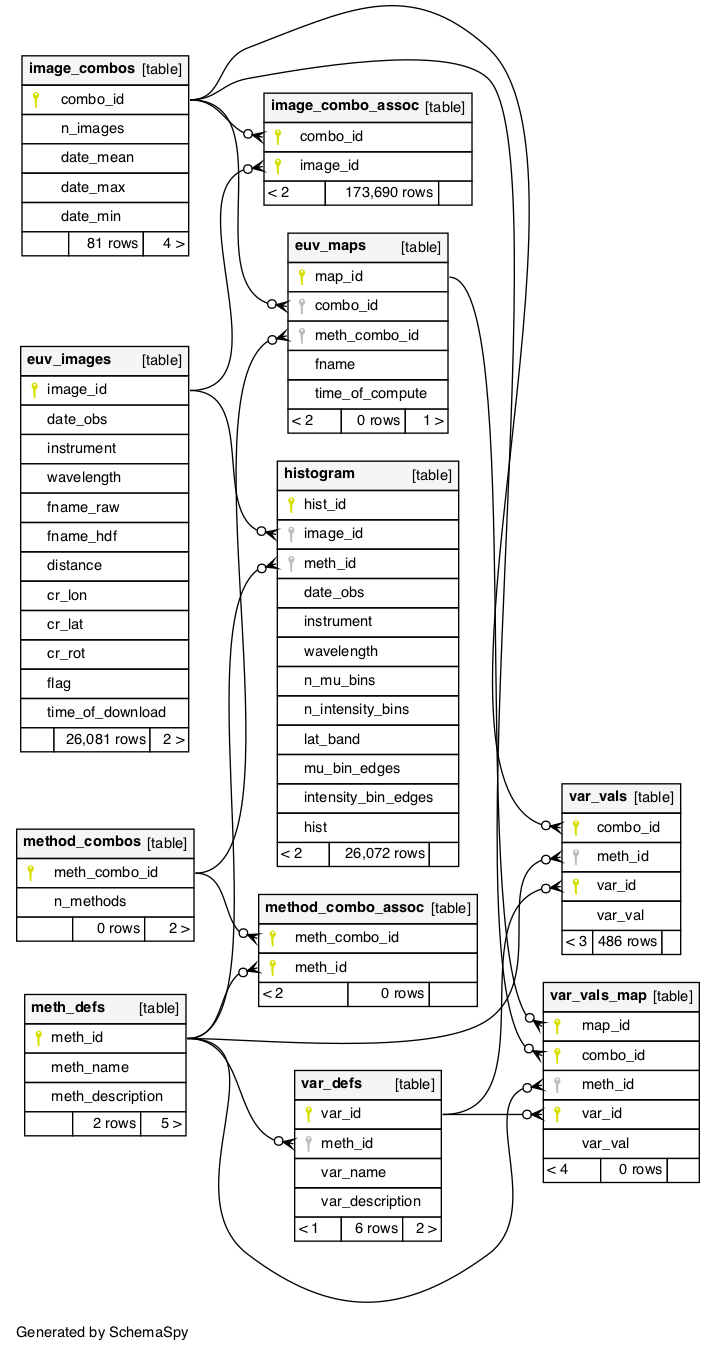
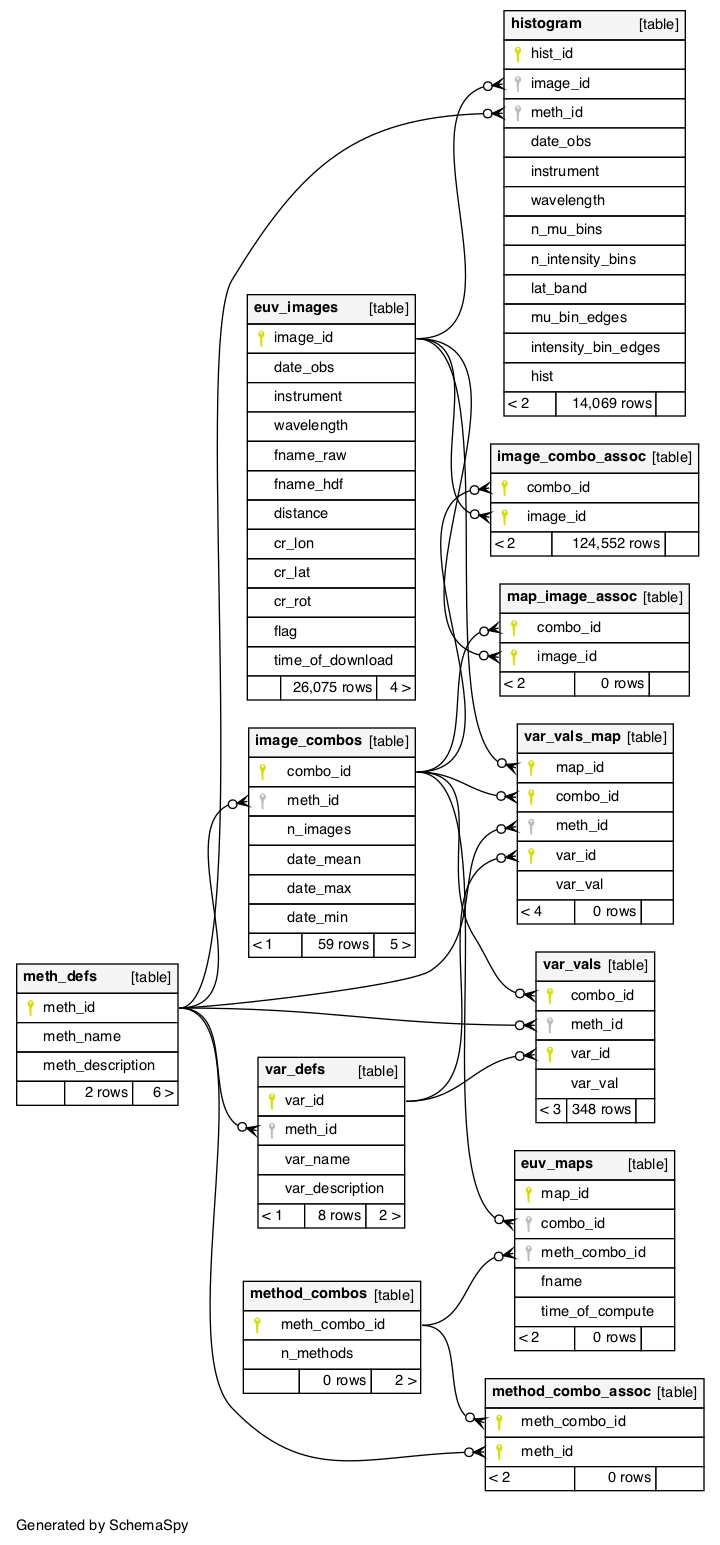
Deployed ac1febb with MkDocs version: 1.1.2

Changed region(s): [[0.0, 0.0, 0.9846, 0.963], [0.0308, 0.963, 0.2462, 0.9941]]

diff --git a/ipp/iit/index.html b/ipp/iit/index.html
@@ -523,7 +523,8 @@ The choice of which instrument to use as the "reference instrument" is an updata
 <h2 id="analysis-pipeline">Analysis Pipeline</h2>
 <h3 id="compute-histograms-and-save-to-database">Compute Histograms and Save to Database</h3>
 <p>This function applies the limb-brightening correction, calculates the associated IIT histogram, and saves these histograms to the database.<br />
-The generalized function can be found <a href="https://github.com/predsci/CHD/blob/master/analysis/iit_analysis/IIT_pipeline_funcs.py">here</a>.  </p>
+The source code and example usage for this is found in the <a href="https://github.com/predsci/CHD/blob/master/analysis/iit_analysis/IIT_create_hists.py">CHD GitHub</a>
+and the generalized function can be found <a href="https://github.com/predsci/CHD/blob/master/analysis/iit_analysis/IIT_pipeline_funcs.py">here</a>.  </p>
 <table class="codehilitetable"><tr><td class="linenos"><div class="linenodiv"><pre> 1
  2
  3
@@ -578,13 +579,127 @@ The generalized function can be found <a href="https://github.com/predsci/CHD/bl
 </ul>
 <h3 id="calculate-and-save-correction-coefficients">Calculate and Save Correction Coefficients</h3>
 <p>This function queries the database for IIT histograms, calculates correction coefficients, and saves them to the database.<br />
-The generalized function can be found <a href="https://github.com/predsci/CHD/blob/master/analysis/iit_analysis/IIT_pipeline_funcs.py">here</a>.  </p>
+The source code and example usage for this is found in the <a href="https://github.com/predsci/CHD/blob/master/analysis/iit_analysis/IIT_calc_coefficients.py">CHD GitHub</a>
+and the generalized function can be found <a href="https://github.com/predsci/CHD/blob/master/analysis/iit_analysis/IIT_pipeline_funcs.py">here</a>.  </p>
+<table class="codehilitetable"><tr><td class="linenos"><div class="linenodiv"><pre> 1
+ 2
+ 3
+ 4
+ 5
+ 6
+ 7
+ 8
+ 9
+10
+11
+12
+13</pre></div></td><td class="code"><div class="codehilite"><pre><span></span><code><span class="err">    def calc_iit_coefficients(db_session, inst_list, ref_inst, calc_query_time_min, calc_query_time_max, weekday=0, number_of_days=180,</span>
+<span class="err">                      n_intensity_bins=200, lat_band=[-np.pi / 2.4, np.pi / 2.4], create=False):</span>
+<span class="err">                  &quot;&quot;&quot;</span>
+<span class="err">                  function to query IIT histograms, calculate IIT coefficients, and save to database</span>
+<span class="err">                  &quot;&quot;&quot;</span>
+<span class="err">                  pd_hist = db_funcs.query_hist(db_session=db_session, meth_id=method_id[1], n_intensity_bins=n_intensity_bins,</span>
+<span class="err">                                  lat_band=np.array(lat_band).tobytes(),</span>
+<span class="err">                                  time_min=np.datetime64(min_date).astype(datetime.datetime),</span>
+<span class="err">                                  time_max=np.datetime64(max_date).astype(datetime.datetime),</span>
+<span class="err">                                  instrument=query_instrument)</span>
+<span class="err">                  alpha_x_parameters = iit.optim_iit_linear(hist_ref, hist_fit, intensity_bin_edges,</span>
+<span class="err">                                          init_pars=init_pars)</span>
+<span class="err">                  db_funcs.store_iit_values(db_session, pd_hist, meth_name, meth_desc, alpha_x_parameters.x, create)</span>
+</code></pre></div>
+</td></tr></table>
+
+<ul>
+<li>1.) <code>db_funcs.query_hist</code><ul>
+<li>queries database for histograms (from Histogram table) in specified date range  </li>
+</ul>
+</li>
+<li>2.) <code>iit.optim_iit_linear</code><ul>
+<li>use linear optimization method to calculate fit parameters</li>
+</ul>
+</li>
+<li>3.) <code>db_funcs.store_iit_values</code><ul>
+<li>save the two fit coefficients to database using function <a href="https://github.com/predsci/CHD/blob/master/modules/DB_funs.py">store_iit_values</a><ul>
+<li>creates image combination combo_id of image_ids and dates in Images_Combos table</li>
+<li>creates association between each image_id and combo_id in Image_Combo_Assoc table</li>
+<li>creates new method “IIT” with an associated meth_id in Meth_Defs table</li>
+<li>creates new variable definitions "alpha and "x"" with an associated var_id in Var_Defs table</li>
+<li>store variable value as float in Var_Vals table with associated combo_id, meth_id, and var_id  </li>
+</ul>
+</li>
+</ul>
+</li>
+</ul>
 <h3 id="apply-inter-instrument-transformation-and-plot-new-images">Apply Inter-Instrument Transformation and Plot New Images</h3>
 <p>This function queries the database for IIT coefficients, applies the correction, and plots resulting images.<br />
-The generalized function can be found <a href="https://github.com/predsci/CHD/blob/master/analysis/iit_analysis/IIT_pipeline_funcs.py">here</a>.  </p>
+The source code and example usage for this is found in the <a href="https://github.com/predsci/CHD/blob/master/analysis/iit_analysis/IIT_apply_correction.py">CHD GitHub</a>
+and the generalized function can be found <a href="https://github.com/predsci/CHD/blob/master/analysis/iit_analysis/IIT_pipeline_funcs.py">here</a>.  </p>
+<table class="codehilitetable"><tr><td class="linenos"><div class="linenodiv"><pre> 1
+ 2
+ 3
+ 4
+ 5
+ 6
+ 7
+ 8
+ 9
+10
+11
+12
+13
+14
+15
+16
+17
+18
+19</pre></div></td><td class="code"><div class="codehilite"><pre><span></span><code><span class="err">    def apply_iit_correction(db_session, hdf_data_dir, iit_query_time_min, iit_query_time_max, inst_list, </span>
+<span class="err">                     n_mu_bins, n_intensity_bins, plot=False):</span>
+<span class="err">                 &quot;&quot;&quot;</span>
+<span class="err">                 function to query IIT correction coefficients, apply correction, and plot resulting images</span>
+<span class="err">                 &quot;&quot;&quot;</span>
+<span class="err">                image_pd = db_funcs.query_euv_images(db_session=db_session, time_min=iit_query_time_min,</span>
+<span class="err">                                     time_max=iit_query_time_max, instrument=query_instrument)</span>
+<span class="err">                lbcc_data = apply_lbc_correction(db_session, hdf_data_dir, instrument, image_row=row,</span>
+<span class="err">                                               n_mu_bins=n_mu_bins, n_intensity_bins=n_intensity_bins, R0=R0)                     </span>
+<span class="err">                alpha_x_parameters = db_funcs.query_var_val(db_session, meth_name, date_obs=lbcc_data.date_obs,</span>
+<span class="err">                                                instrument=instrument)                    </span>
+<span class="err">                corrected_iit_data = alpha * lbcc_data.lbcc_data + x</span>
+<span class="err">                if plot:</span>
+<span class="err">                    Plotting.PlotLBCCImage(lbcc_data.lbcc_data, los_image=original_los, nfig=100 + inst_index * 10 + index,</span>
+<span class="err">                                           title=&quot;Corrected LBCC Image for &quot; + instrument)</span>
+<span class="err">                    Plotting.PlotLBCCImage(corrected_iit_data, los_image=original_los, nfig=200 + inst_index * 10 + index,</span>
+<span class="err">                                           title=&quot;Corrected IIT Image for &quot; + instrument)</span>
+<span class="err">                    Plotting.PlotLBCCImage(lbcc_data.lbcc_data - corrected_iit_data, los_image=original_los,</span>
+<span class="err">                                           nfig=300 + inst_index * 10 + index, title=&quot;Difference Plot for &quot; + instrument)</span>
+</code></pre></div>
+</td></tr></table>
+
+<ul>
+<li>1.) <code>db_funcs.query_euv_images</code><ul>
+<li>queries database for images (from EUV_Images table) in specified date range  </li>
+</ul>
+</li>
+<li>2.)  <code>apply_lbc_correction</code>  <ul>
+<li>applies Limb-Brightening Correction to images and creates LBCCImage datatype  </li>
+</ul>
+</li>
+<li>3.) <code>db_funcs.query_var_val</code><ul>
+<li>queries database for variable values associated with specific image (from Var_Vals table)</li>
+</ul>
+</li>
+<li>4.) <code>corrected_iit_data = alpha * lbcc_data.lbcc_data + x</code><ul>
+<li>applies correction to image based off alpha, x, and limb-brightening corrected data arrays </li>
+</ul>
+</li>
+<li>5.) <code>Plotting.PlotLBCCImage</code><ul>
+<li>plots LBC images, IIT corrected images, and the difference between them                                </li>
+</ul>
+</li>
+</ul>
 <h3 id="generate-histogram-plots">Generate Histogram Plots</h3>
 <p>This function generates histogram plots comparing data from before and after the IIT correction.<br />
-The generalized function can be found <a href="https://github.com/predsci/CHD/blob/master/analysis/iit_analysis/IIT_pipeline_funcs.py">here</a>.  </p>
+The source code and example usage for this is found in the <a href="https://github.com/predsci/CHD/blob/master/analysis/iit_analysis/IIT_plot_hists.py">CHD GitHub</a>
+and the generalized function can be found <a href="https://github.com/predsci/CHD/blob/master/analysis/iit_analysis/IIT_pipeline_funcs.py">here</a>.  </p>
                 
               
               

diff --git a/ipp/lbc/index.html b/ipp/lbc/index.html
@@ -623,7 +623,7 @@ dependent upon their distance from disk center.  </p>
 <h2 id="theoretical-analysis-pipeline">Theoretical Analysis Pipeline</h2>
 <h3 id="compute-histograms-and-save-to-database">Compute Histograms and Save to Database</h3>
 <p>This function computes 2D Histograms from processed images for use in the LBC process. It then saves these computed histograms to the database.<br />
-The source code for this is found in the <a href="https://github.com/predsci/CHD/blob/master/analysis/lbcc_analysis/LBCC_create_mu-hist.py">CHD GitHub</a> 
+The source code and example usage for this is found in the <a href="https://github.com/predsci/CHD/blob/master/analysis/lbcc_analysis/LBCC_create_mu-hist.py">CHD GitHub</a> 
 and the generalized function can be found <a href="https://github.com/predsci/CHD/blob/master/analysis/lbcc_analysis/LBCC_theoretic_funcs.py">here</a>.  </p>
 <table class="codehilitetable"><tr><td class="linenos"><div class="linenodiv"><pre> 1
  2
@@ -645,7 +645,7 @@ and the generalized function can be found <a href="https://github.com/predsci/CH
 <span class="err">        temp_hist = los_temp.mu_hist(image_intensity_bin_edges, mu_bin_edges, lat_band=lat_band, log10=log10)</span>
 <span class="err">        hist_lbcc = psi_d_types.create_lbcc_hist(hdf_path, row.image_id, method_id[1], mu_bin_edges,</span>
 <span class="err">                                                 image_intensity_bin_edges, lat_band, temp_hist)</span>
-<span class="err">        db_funcs.add_hist(hist_lbcc, db_session)</span>
+<span class="err">        db_funcs.add_hist(db_session, hist_lbcc)</span>
 </code></pre></div>
 </td></tr></table>
 
@@ -669,7 +669,7 @@ and the generalized function can be found <a href="https://github.com/predsci/CH
 </ul>
 <h3 id="calculate-and-save-theoretical-fit-parameters">Calculate and Save Theoretical Fit Parameters</h3>
 <p>This function queries histograms from the database then calculates LBC fit parameters which are then saved in the database.<br />
-The source code for this is found in the <a href="https://github.com/predsci/CHD/blob/master/analysis/lbcc_analysis/LBCC_beta-y_theoretical_analysis.py">CHD GitHub</a> 
+The source code and example usage for this is found in the <a href="https://github.com/predsci/CHD/blob/master/analysis/lbcc_analysis/LBCC_beta-y_theoretical_analysis.py">CHD GitHub</a> 
 and the generalized function can be found <a href="https://github.com/predsci/CHD/blob/master/analysis/lbcc_analysis/LBCC_theoretic_funcs.py">here</a>. </p>
 <table class="codehilitetable"><tr><td class="linenos"><div class="linenodiv"><pre> 1
  2
@@ -715,7 +715,7 @@ and the generalized function can be found <a href="https://github.com/predsci/CH
 </ul>
 </li>
 <li>3.) <code>db_funcs.store_lbcc_values</code><ul>
-<li>save the six fit parameters to database using function store_lbcc_values from modules/DB_funs<ul>
+<li>save the six fit parameters to database using function <a href="https://github.com/predsci/CHD/blob/master/modules/DB_funs.py">store_lbcc_values</a><ul>
 <li>creates image combination combo_id of image_ids and dates in Images_Combos table</li>
 <li>creates association between each image_id and combo_id in Image_Combo_Assoc table</li>
 <li>creates new method “LBCC Theoretic” with an associated meth_id in Meth_Defs table</li>
@@ -728,7 +728,7 @@ and the generalized function can be found <a href="https://github.com/predsci/CH
 </ul>
 <h3 id="apply-limb-brightening-correction-and-plot-corrected-images">Apply Limb-Brightening Correction and Plot Corrected Images</h3>
 <p>This function queries the database for LBC fit parameters then applies them to specified images, plotting resulting images before and after the correction.<br />
-The source code for this is found in the <a href="https://github.com/predsci/CHD/blob/master/analysis/lbcc_analysis/LBCC_apply_fit.py">CHD GitHub</a> 
+The source code and example usage for this is found in the <a href="https://github.com/predsci/CHD/blob/master/analysis/lbcc_analysis/LBCC_apply_fit.py">CHD GitHub</a> 
 and the generalized function can be found <a href="https://github.com/predsci/CHD/blob/master/analysis/lbcc_analysis/LBCC_theoretic_funcs.py">here</a>. </p>
 <table class="codehilitetable"><tr><td class="linenos"><div class="linenodiv"><pre> 1
  2
@@ -790,13 +790,13 @@ and the generalized function can be found <a href="https://github.com/predsci/CH
 </ul>
 </li>
 <li>5.) <code>Plotting.PlotImage</code> and <code>Plotting.PlotLBCCImage</code><ul>
-<li>plots original and corrected images and difference between them   </li>
+<li>plots original and corrected images, and difference between them   </li>
 </ul>
 </li>
 </ul>
 <h3 id="generate-plots-of-beta-and-y">Generate Plots of Beta and y</h3>
 <p>This function queries the database for LBC fit parameters then generates plots of Beta and y over time.<br />
-The source code for this is found in the <a href="https://github.com/predsci/CHD/blob/master/analysis/lbcc_analysis/LBCC_generate_theoretic_plots.py">CHD GitHub</a> 
+The source code and example usage for this is found in the <a href="https://github.com/predsci/CHD/blob/master/analysis/lbcc_analysis/LBCC_generate_theoretic_plots.py">CHD GitHub</a> 
 and the generalized function can be found <a href="https://github.com/predsci/CHD/blob/master/analysis/lbcc_analysis/LBCC_theoretic_funcs.py">here</a>.    </p>
 <table class="codehilitetable"><tr><td class="linenos"><div class="linenodiv"><pre> 1
  2

diff --git a/db/db/index.html b/db/db/index.html
@@ -449,7 +449,8 @@
                 
                 
                 <h1 id="database-information">Database Information</h1>
-<p>The Image Pre-Processing Pipeline is built upon a database to store images, histograms, and fit parameter values. </p>
+<p>The Image Pre-Processing Pipeline is built upon a <a href="https://github.com/predsci/CHD/blob/master/modules/DB_classes">database</a>
+ to store images, histograms, and fit parameter values. </p>
 <h2 id="updating-the-database">Updating the Database</h2>
 <p>The original database is now quite different than the database needed to query and save calculated parameters. In order to generate
 the necessary updates to run the code, do the following:  </p>
@@ -479,6 +480,11 @@ the necessary updates to run the code, do the following:  </p>
 <li>"revision" refers to the first 3+ identifying characters from the specific script  </li>
 </ul>
 </li>
+</ul>
+</li>
+<li>5.) to create new update scripts<br />
+    <code>alembic revision -m "revision name"</code>  <ul>
+<li>edit this script with the upgrade/downgrade necessary</li>
 </ul>
 </li>
 </ul>

diff --git a/db/lbc/index.html b/db/lbc/index.html
@@ -587,6 +587,7 @@ The histograms are created in <a href="../../ipp/lbc/#compute-histograms-and-sav
 <p><strong>Columns:</strong>  </p>
 <blockquote>
 <p><em>combo_id:</em> auto-incremented integer id associated with that specific combination of images (Primary Key, Integer)<br />
+<em>meth_id:</em> auto-incremented integer id associated with the specific method (Foreign Key: Meth Defs, Integer)   <br />
 <em>n_images:</em> number of images in combination (Integer)<br />
 <em>date_mean:</em> mean date of images in image combination (DateTime)<br />
 <em>date_max:</em> maximum date of images in image combination (DateTime)<br />

diff --git a/db/iit/index.html b/db/iit/index.html
@@ -558,6 +558,7 @@ of Inter-Instrument Transformation Correction.</p>
 <p><strong>Columns:</strong>  </p>
 <blockquote>
 <p><em>combo_id:</em> auto-incremented integer id associated with that specific combination of images (Primary Key, Integer)<br />
+<em>meth_id:</em> auto-incremented integer id associated with the specific method (Foreign Key: Meth Defs, Integer)    <br />
 <em>n_images:</em> number of images in combination (Integer)<br />
 <em>date_mean:</em> mean date of images in image combination (DateTime)<br />
 <em>date_max:</em> maximum date of images in image combination (DateTime)<br />
